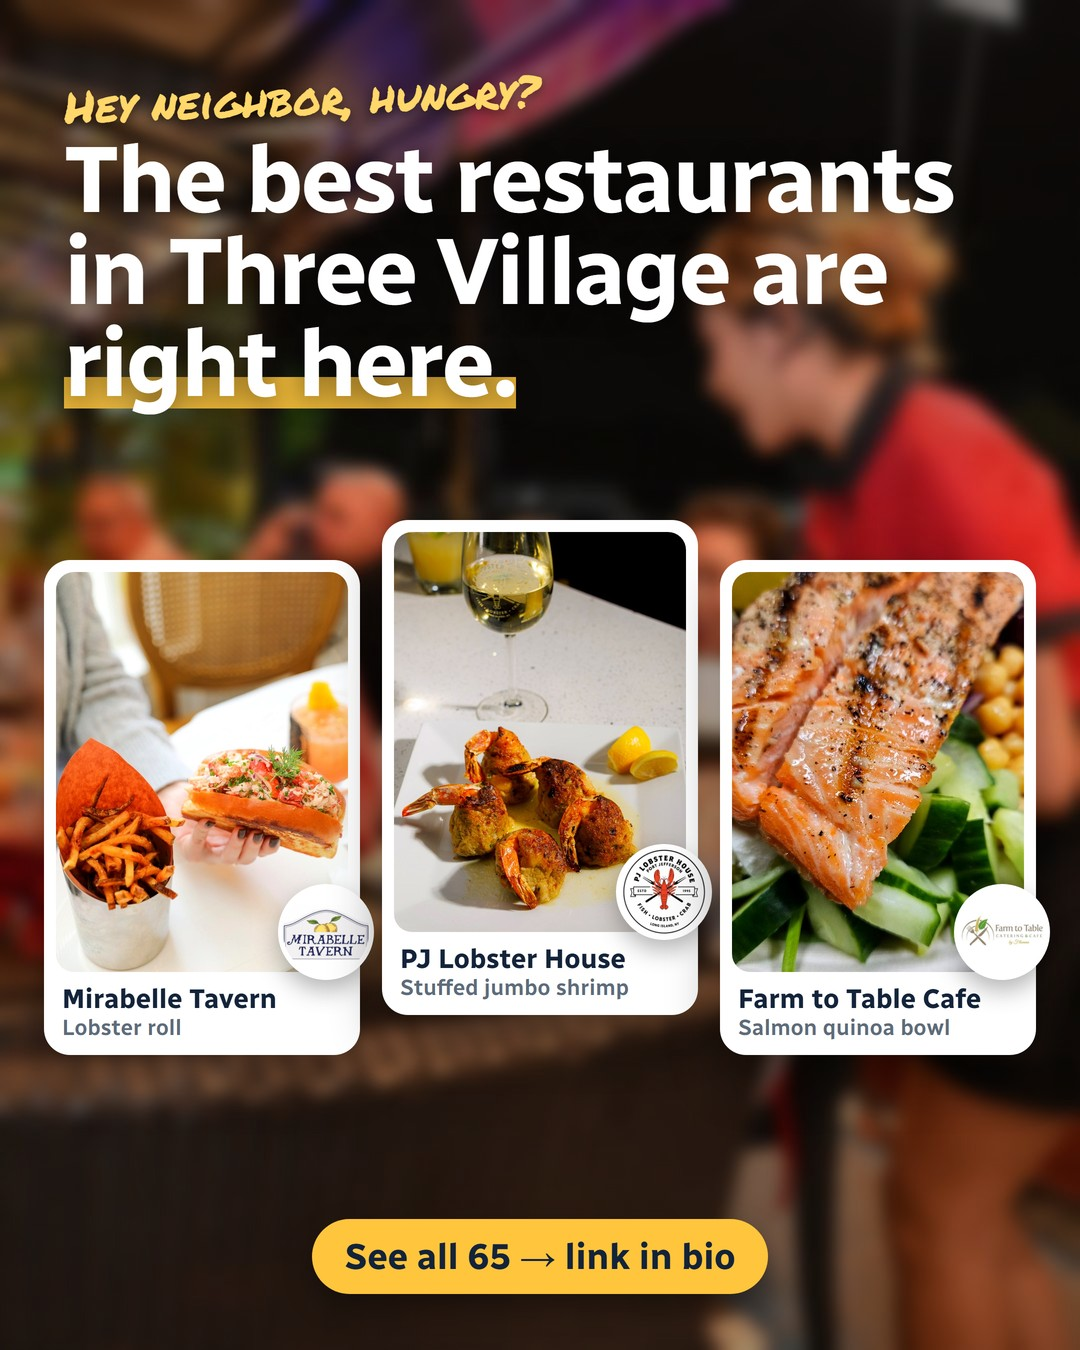
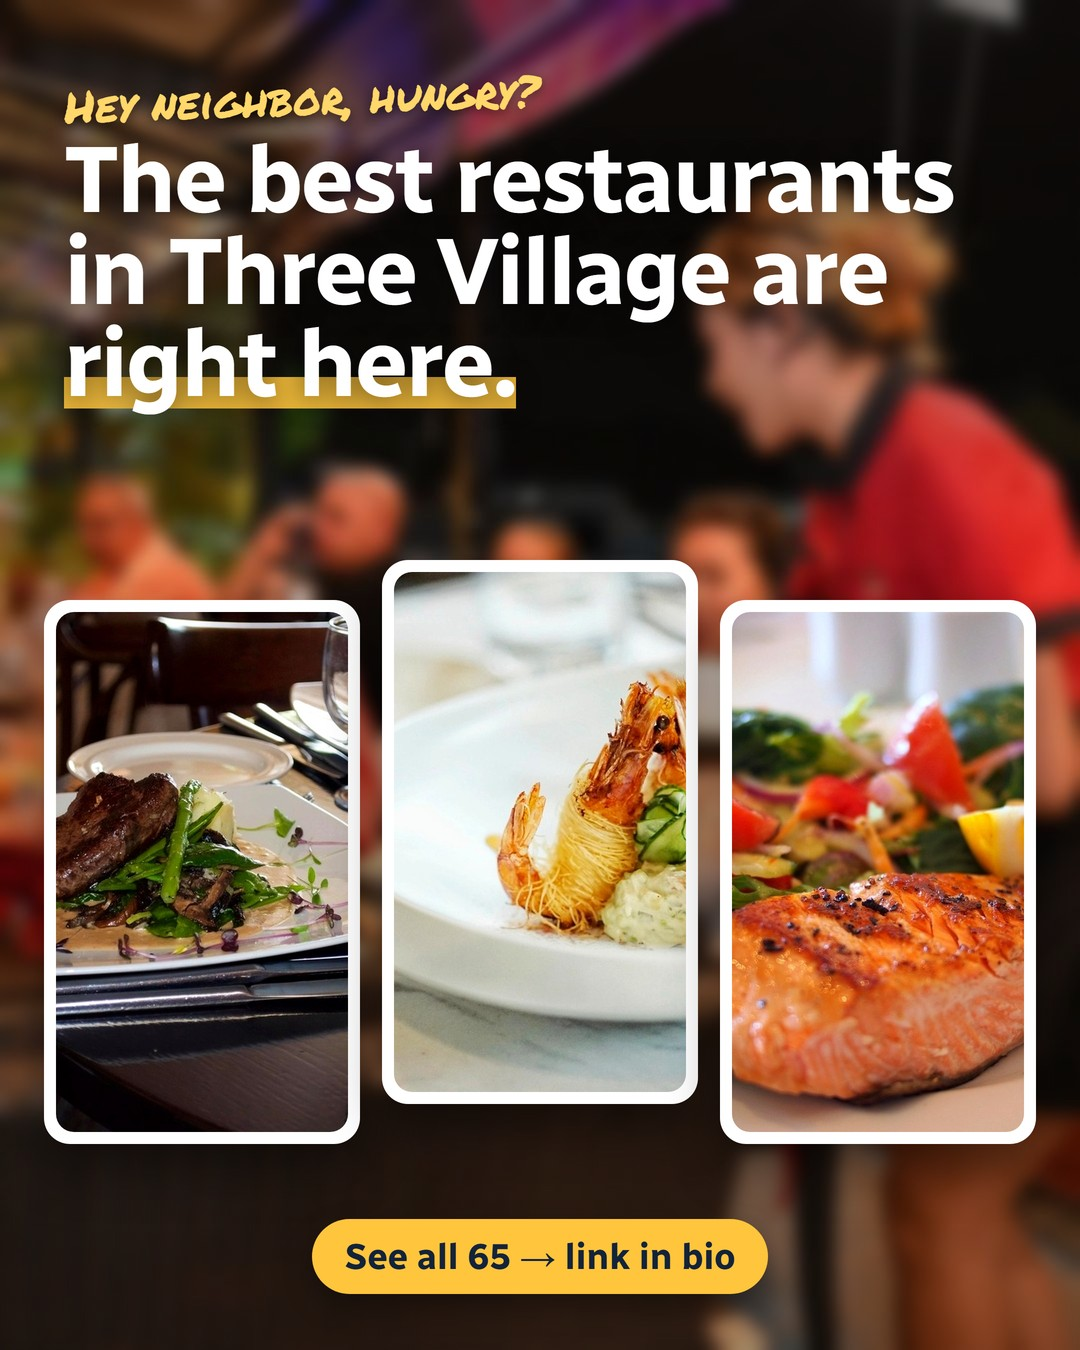
restaurant spotlight v3

diff --git a/preview/category-spotlights.html b/preview/category-spotlights.html
@@ -1,5 +1,5 @@
 <!doctype html><html><head><meta charset='utf-8'><meta name='viewport' content='width=device-width,initial-scale=1'><meta name='robots' content='noindex,nofollow'><title>PREVIEW: Restaurant spotlight</title>
 <style>body{margin:0;background:#eef1f5;font-family:Arial,sans-serif;color:#13233a}.w{max-width:1000px;margin:0 auto;padding:16px}img{width:100%;border-radius:12px;box-shadow:0 8px 24px rgba(0,0,0,.15)}.r{display:flex;gap:16px;flex-wrap:wrap}.r>div{flex:1 1 300px}</style></head><body><div class='w'>
-<div style='background:#fff8e1;border:1px solid #f2d27a;border-radius:12px;padding:12px 14px;margin-bottom:14px'><b>Restaurant spotlight, the mix you described.</b> Nothing posted.</div>
-<div class='r'><div><h3>Instagram + Facebook post (4:5)</h3><img src='https://threevillagelocal-cloud.github.io/3vl-share/category-spotlight/restaurant-ig.jpg?v=3'></div><div style='max-width:360px'><h3>Story (9:16)</h3><img src='https://threevillagelocal-cloud.github.io/3vl-share/category-spotlight/restaurant-story.jpg?v=3'></div></div>
-<h3>Page share image (when anyone shares /restaurant)</h3><img src='https://threevillagelocal-cloud.github.io/3vl-share/category-spotlight/restaurant-og-preview.jpg?v=3'></div></body></html>
+<div style='background:#fff8e1;border:1px solid #f2d27a;border-radius:12px;padding:12px 14px;margin-bottom:14px'><b>Restaurant spotlight with stock dinner photos, no restaurant names.</b> Nothing posted.</div>
+<div class='r'><div><h3>Instagram + Facebook post (4:5)</h3><img src='https://threevillagelocal-cloud.github.io/3vl-share/category-spotlight/restaurant-ig.jpg?v=4'></div><div style='max-width:360px'><h3>Story (9:16)</h3><img src='https://threevillagelocal-cloud.github.io/3vl-share/category-spotlight/restaurant-story.jpg?v=4'></div></div>
+<h3>Page share image (when anyone shares /restaurant)</h3><img src='https://threevillagelocal-cloud.github.io/3vl-share/category-spotlight/restaurant-og-preview.jpg?v=4'></div></body></html>
